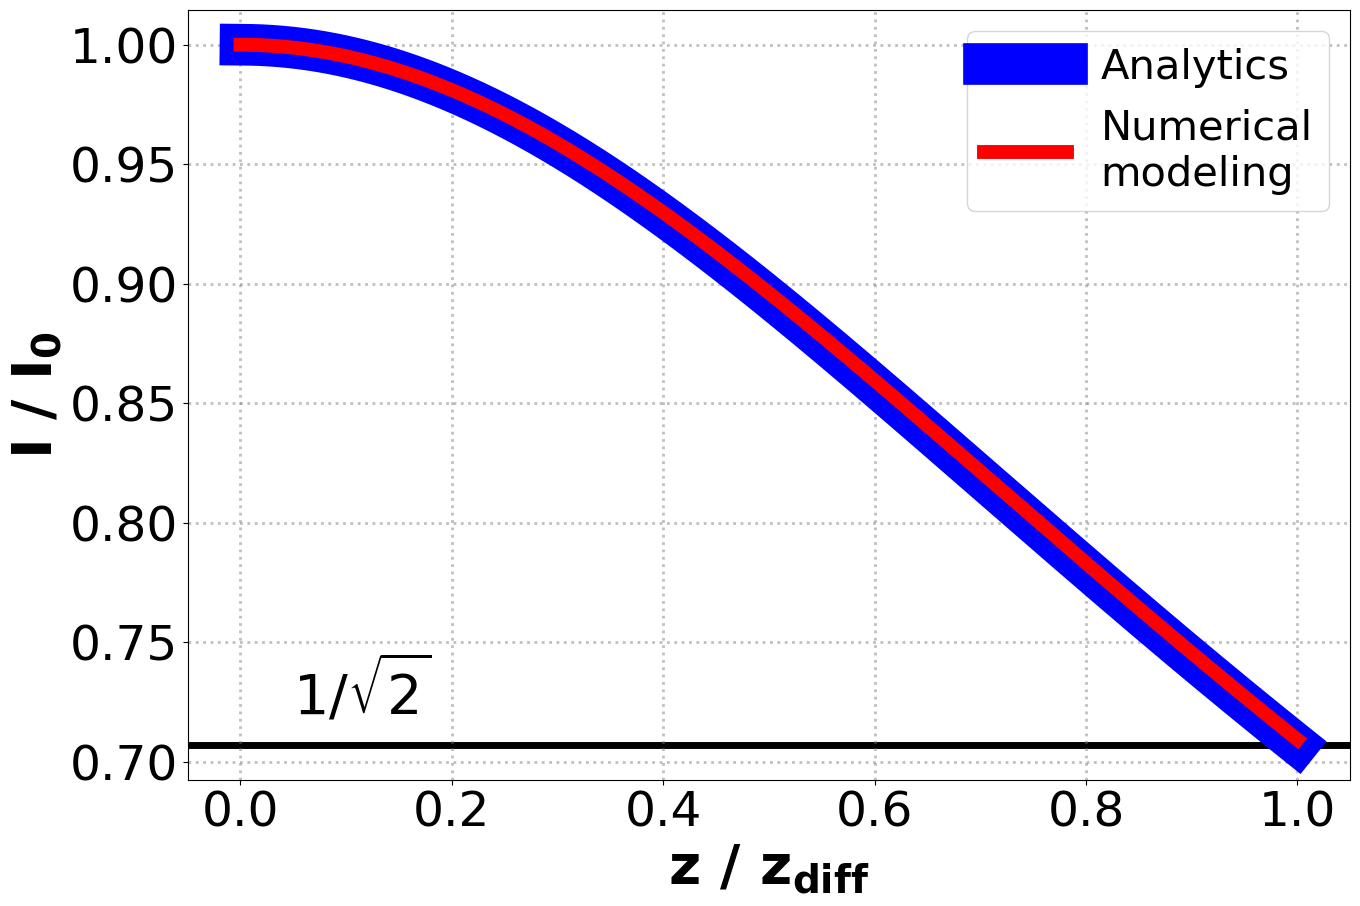
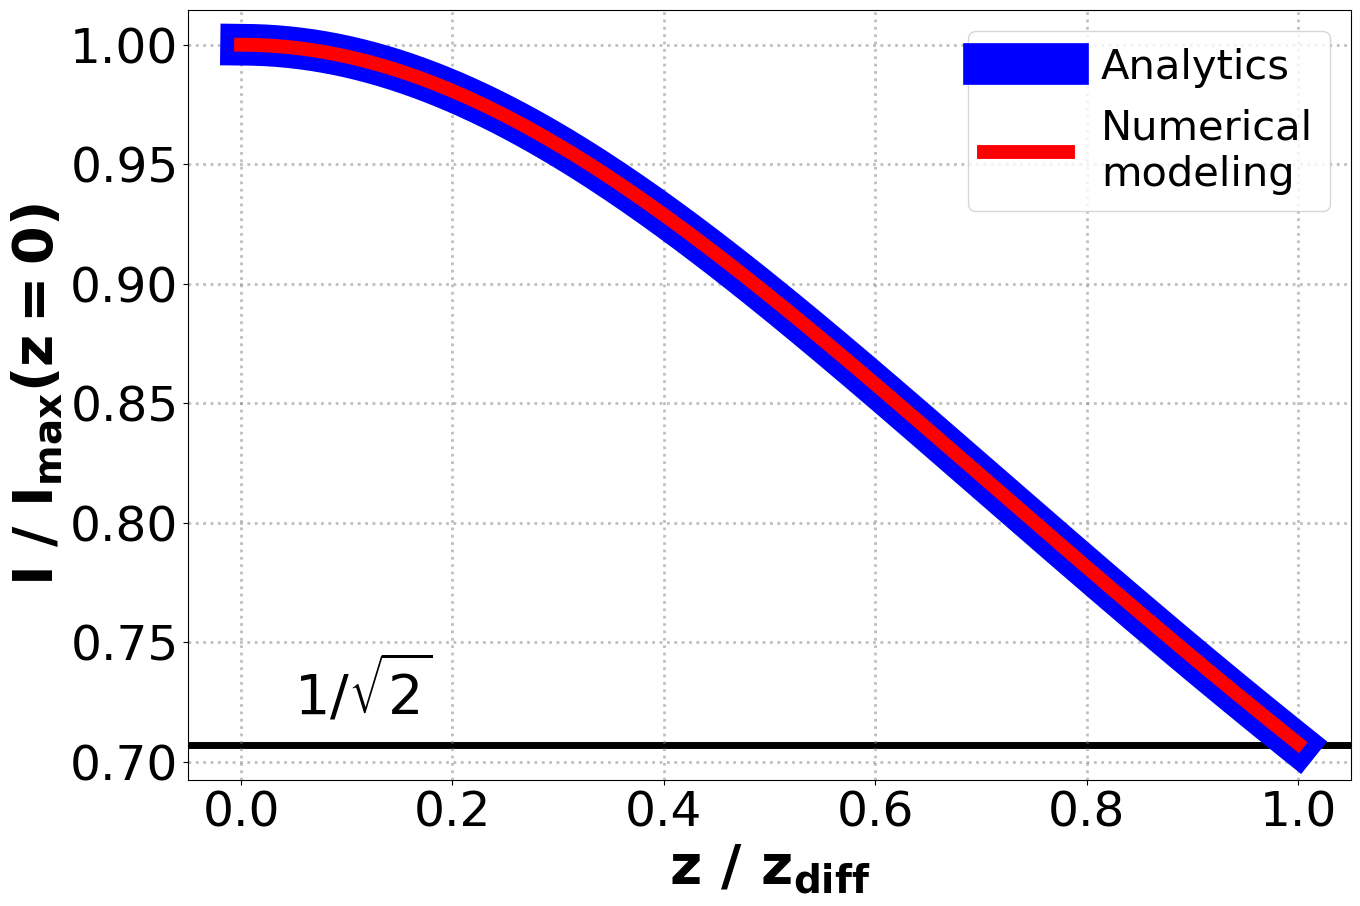
resources

diff --git a/tests/diffraction/test_diffraction.py b/tests/diffraction/test_diffraction.py
@@ -83,10 +83,12 @@ class TestDiffraction(TestCase, metaclass=abc.ABCMeta):
 
         if self._language == 'english':
             x_label = '$\mathbf{z \ / \ z_{diff}}$'
+            y_label = '$\mathbf{I \ / \ I_{max} (z=0)}$'
         else:
             x_label = '$\mathbf{z \ / \ z_{диф}}$'
+            y_label = '$\mathbf{I \ / \ I_{макс} (z=0)}$'
         plt.xlabel(x_label, fontsize=font_size, fontweight=font_weight)
-        plt.ylabel('$\mathbf{I \ / \ I_0}$', fontsize=font_size, fontweight=font_weight)
+        plt.ylabel(y_label, fontsize=font_size, fontweight=font_weight)
 
         if self._horizontal_line == 1 / sqrt(2):
             plt.axhline(1 / sqrt(2), color='black', linestyle='solid', linewidth=5, zorder=-1)
